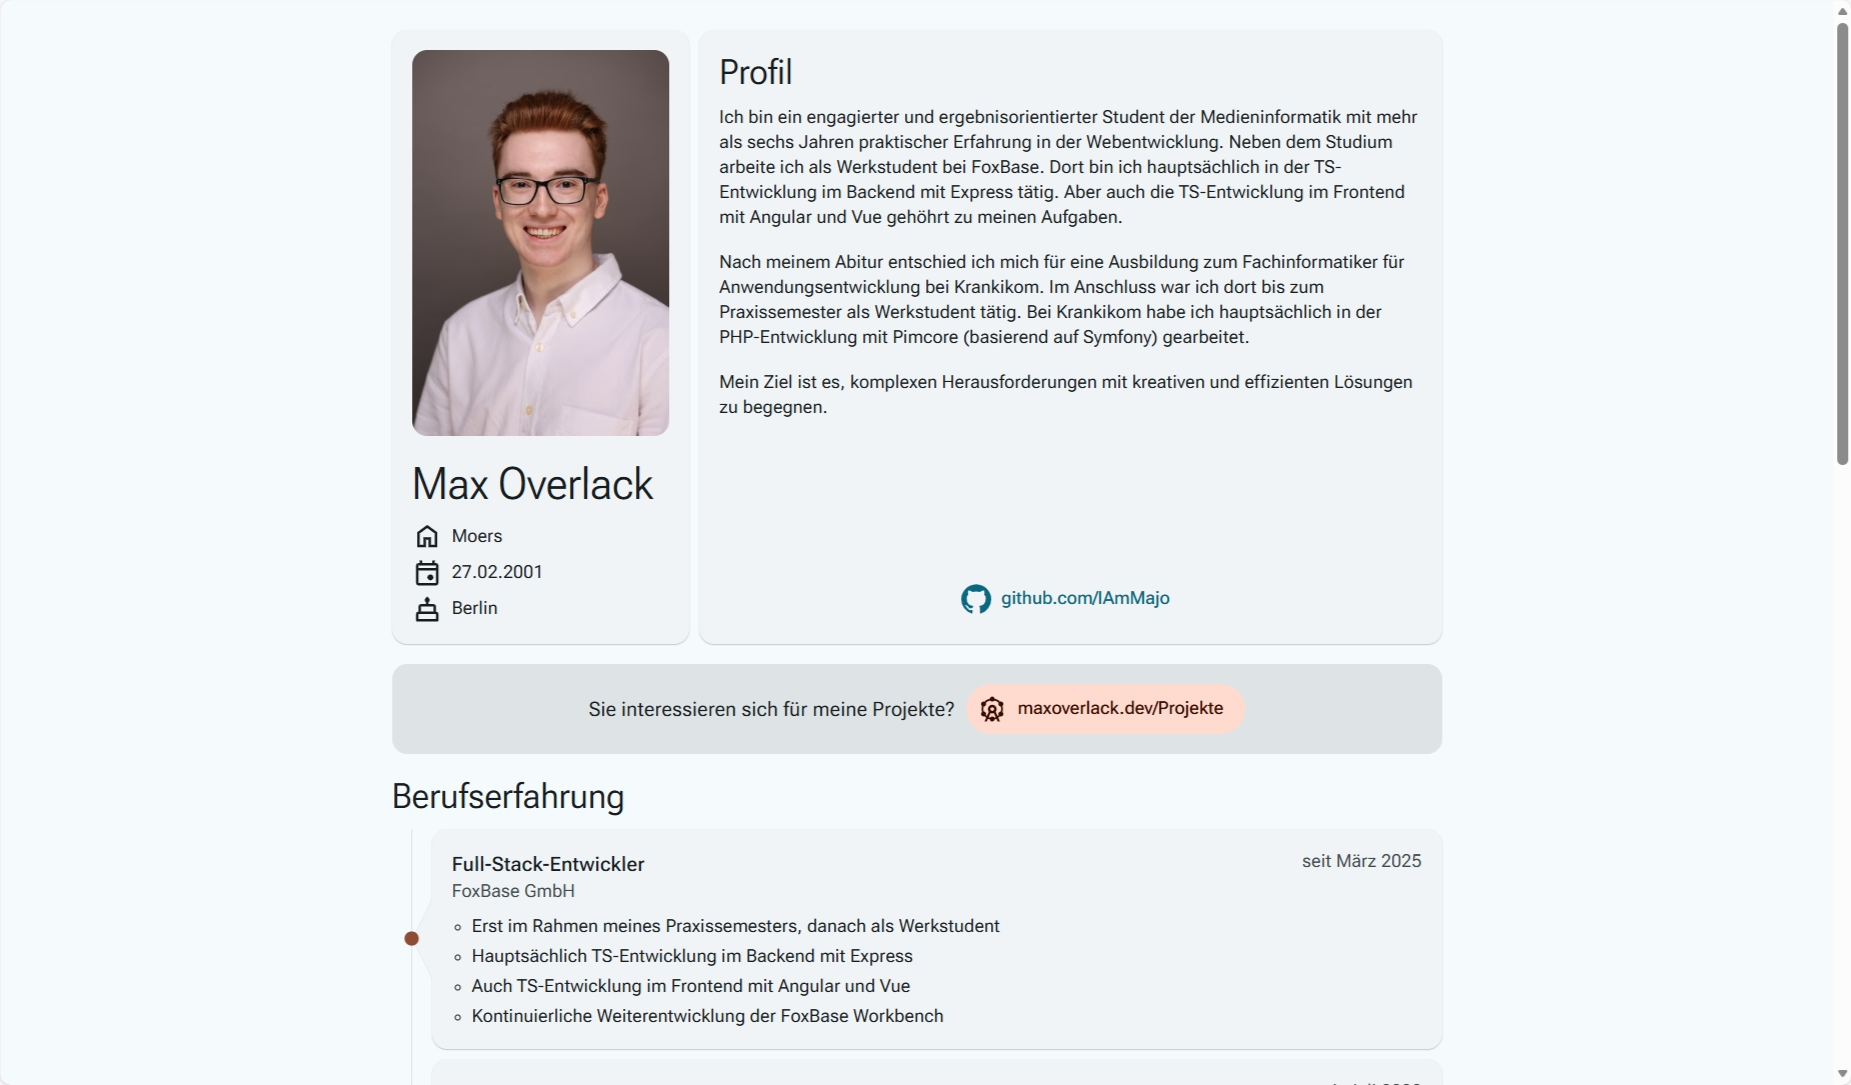
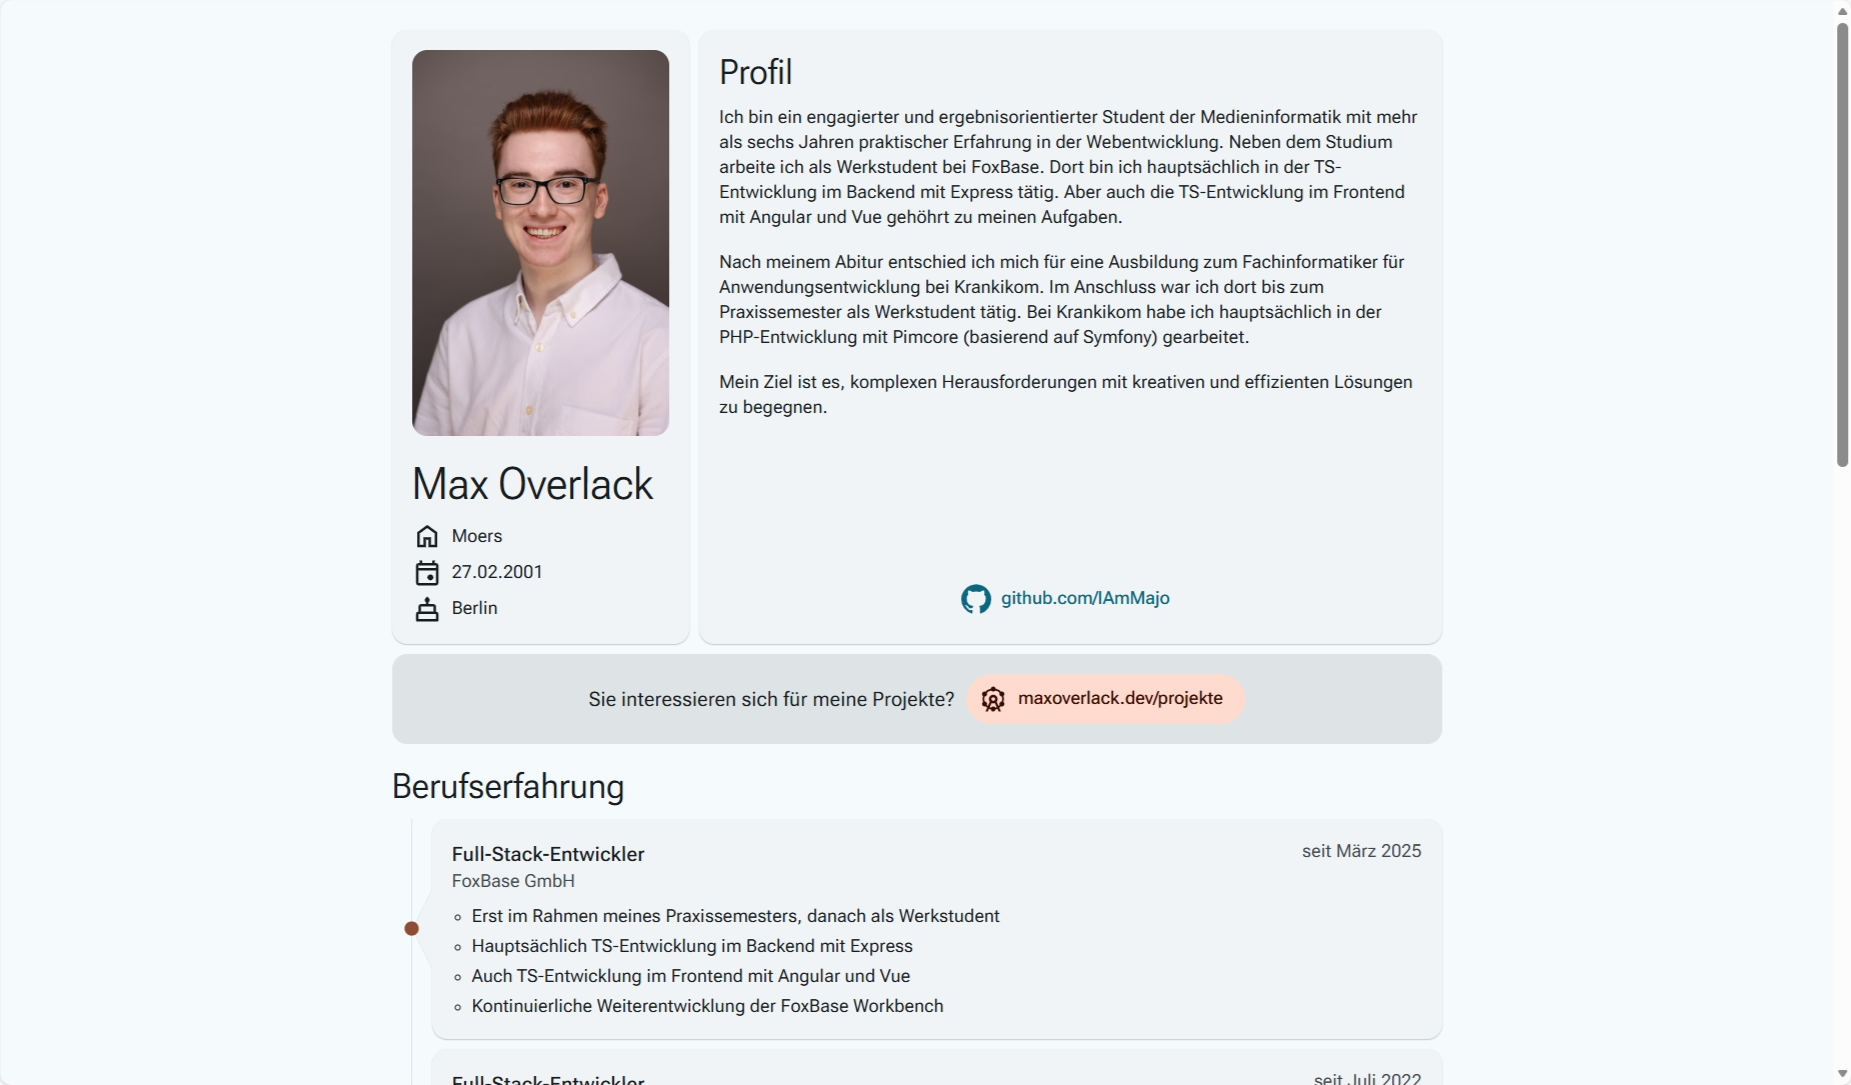
Add more projects and add simple 404 page

diff --git a/src/styles/global.css b/src/styles/global.css
@@ -62,6 +62,9 @@ body {
   font-size: var(--mdui-typescale-body-large-size);
   letter-spacing: var(--mdui-typescale-body-large-tracking);
 }
+a {
+  color: rgb(var(--mdui-color-primary));
+}
 .dark {
   display: none;
 }

diff --git a/src/content/projects/distances-in-r3.md b/src/content/projects/distances-in-r3.md
@@ -1,0 +1,15 @@
+---
+image: ../../images/projects/distances-in-r3.png
+title: Abstände im R³
+updatedAt: 2023-07-03
+githubRepository: IAmMajo/Abstaende-Im-R3
+---
+
+Diese Website ist im Rahmen des Moduls „Lineare Algebra und Operations
+Research“ im zweiten Semester meines Studiums in Zusammenarbeit mit anderen
+Studierenden entstanden. Es handelt sich um eine Website, die die Distanzen
+zwischen Punkt-Gerade, Punkt-Ebene und Gerade-Gerade im dreidimensionalen Raum
+berechnen kann und die Ergebnisse grafisch darstellt. Für die grafische
+Darstellung wird [p5.js](https://p5js.org/) verwendet. Für die Website wird als
+Framework [Astro](https://astro.build/) und als UI-Bibliothek
+[Material Web](https://github.com/material-components/material-web) verwendet.

diff --git a/src/content/projects/pi.md b/src/content/projects/pi.md
@@ -5,9 +5,9 @@ updatedAt: 2023-01-08
 githubRepository: IAmMajo/Pi
 ---
 
-Diese Website ist im Rahmen des Moduls "Diskrete Mathematik und Logik" im ersten
+Diese Website ist im Rahmen des Moduls „Diskrete Mathematik und Logik“ im ersten
 Semester meines Studiums entstanden. So lange die Website geöffnet ist, werden
-immer weiter Nachkommastellen von Pi geniert. Um mit der Berechnung der
+immer weiter Nachkommastellen von Pi generiert. Um mit der Berechnung der
 Nachkommastellen den Browser nicht komplett zu blockieren, findet die Berechnung
 in einem WebWorker statt. Als UI-Bibliothek wird
 [Material Web](https://github.com/material-components/material-web) verwendet.

diff --git a/src/content/projects/foxbase-ai.md b/src/content/projects/foxbase-ai.md
@@ -5,8 +5,8 @@ updatedAt: 2025-02-28
 githubRepository: IAmMajo/Foxbase-AI
 ---
 
-Diese Website ist im Rahmen des Moduls "Webentwicklung" im fünften Semester
+Diese Website ist im Rahmen des Moduls „Webentwicklung“ im fünften Semester
 meines Studiums in Zusammenarbeit mit anderen Studierenden entstanden. Es
 handelt sich um ein Frontend für die Semantic Search API der FoxBase GmbH und
 war ein exploratives Projekt zur Entwicklung eines UIs für AI. Als Framework
-wird [Nuxt](https://nuxt.com/) verwendet.
+wurde [Nuxt](https://nuxt.com/) verwendet.

diff --git a/src/content/projects/fdb-converter.md b/src/content/projects/fdb-converter.md
@@ -5,8 +5,8 @@ updatedAt: 2025-02-06
 githubRepository: IAmMajo/FDB-Converter
 ---
 
-Diese Website ist in meiner Freizeit entstanden und dient dazu
-FDB-Datenbank-Dateien des Spiels
+Diese Website ist in meiner Freizeit ursprünglich während meiner Ausbildung
+entstanden und dient dazu FDB-Datenbank-Dateien des Spiels
 [LEGO Universe](https://en.wikipedia.org/wiki/Lego_Universe) zu konvertieren.
 Es können FDB-Dateien in SQLite-Dateien, SQLite-Dateien in FDB-Dateien und
 XML-Dateien in FDB-Dateien konvertiert werden. Im Hintergrund wird eine für

diff --git a/src/content/projects/dmt-blog.md b/src/content/projects/dmt-blog.md
@@ -1,0 +1,12 @@
+---
+image: ../../images/projects/dmt-blog.png
+title: DMT-Blog
+updatedAt: 2024-07-15
+githubRepository: IAmMajo/DMT-Blog
+---
+
+Dieser Blog für das Modul „Digital Media Technologien“ ist im vierten Semester
+meines Studiums entstanden. Im Blog wird die Entwicklung einer Tablet-App für
+das [Museum Schloss Moyland](https://moyland.de/) beschrieben. Der Blog basiert
+auf dem Blog-Template von [Astro](https://astro.build/). Die App selbst wurde
+mit [FlutterFlow](https://www.flutterflow.io/) entwickelt.

diff --git a/src/content/projects/butterflies.md b/src/content/projects/butterflies.md
@@ -6,7 +6,7 @@ githubRepository: IAmMajo/FP-Uebungen
 githubUrlPath: IAmMajo/FP-Uebungen/tree/main/Testat
 ---
 
-Dieses Browser-Spiel ist im Rahmen des Moduls "Fortgeschrittene Programmierung"
+Dieses Browser-Spiel ist im Rahmen des Moduls „Fortgeschrittene Programmierung“
 im zweiten Semester meines Studiums entstanden. Es handelt sich um einen 
 modernen Nachbau des Schmetterlinge-Spiels vom Poly-Play-Arcade-Automaten der
 DDR. Als UI-Bibliothek wird

diff --git a/src/content/projects/languageapi.md b/src/content/projects/languageapi.md
@@ -1,0 +1,10 @@
+---
+image: ../../images/projects/languageapi.png
+title: LanguageAPI
+updatedAt: 2019-07-20
+githubRepository: IAmMajo/LanguageAPI
+---
+
+Diese Java-Bibliothek ist in meiner Freizeit während meiner Zeit auf dem
+Gymnasium entstanden und dient dazu das Schreiben von mehrsprachigen Plugins
+für Minecraft-Server zu vereinfachen.

diff --git a/src/content/projects/this-website.md b/src/content/projects/this-website.md
@@ -1,7 +1,7 @@
 ---
 image: ../../images/projects/this-website.png
 title: Diese Website
-updatedAt: 2025-11-13
+updatedAt: 2025-11-14
 githubRepository: IAmMajo/Website
 ---
 
